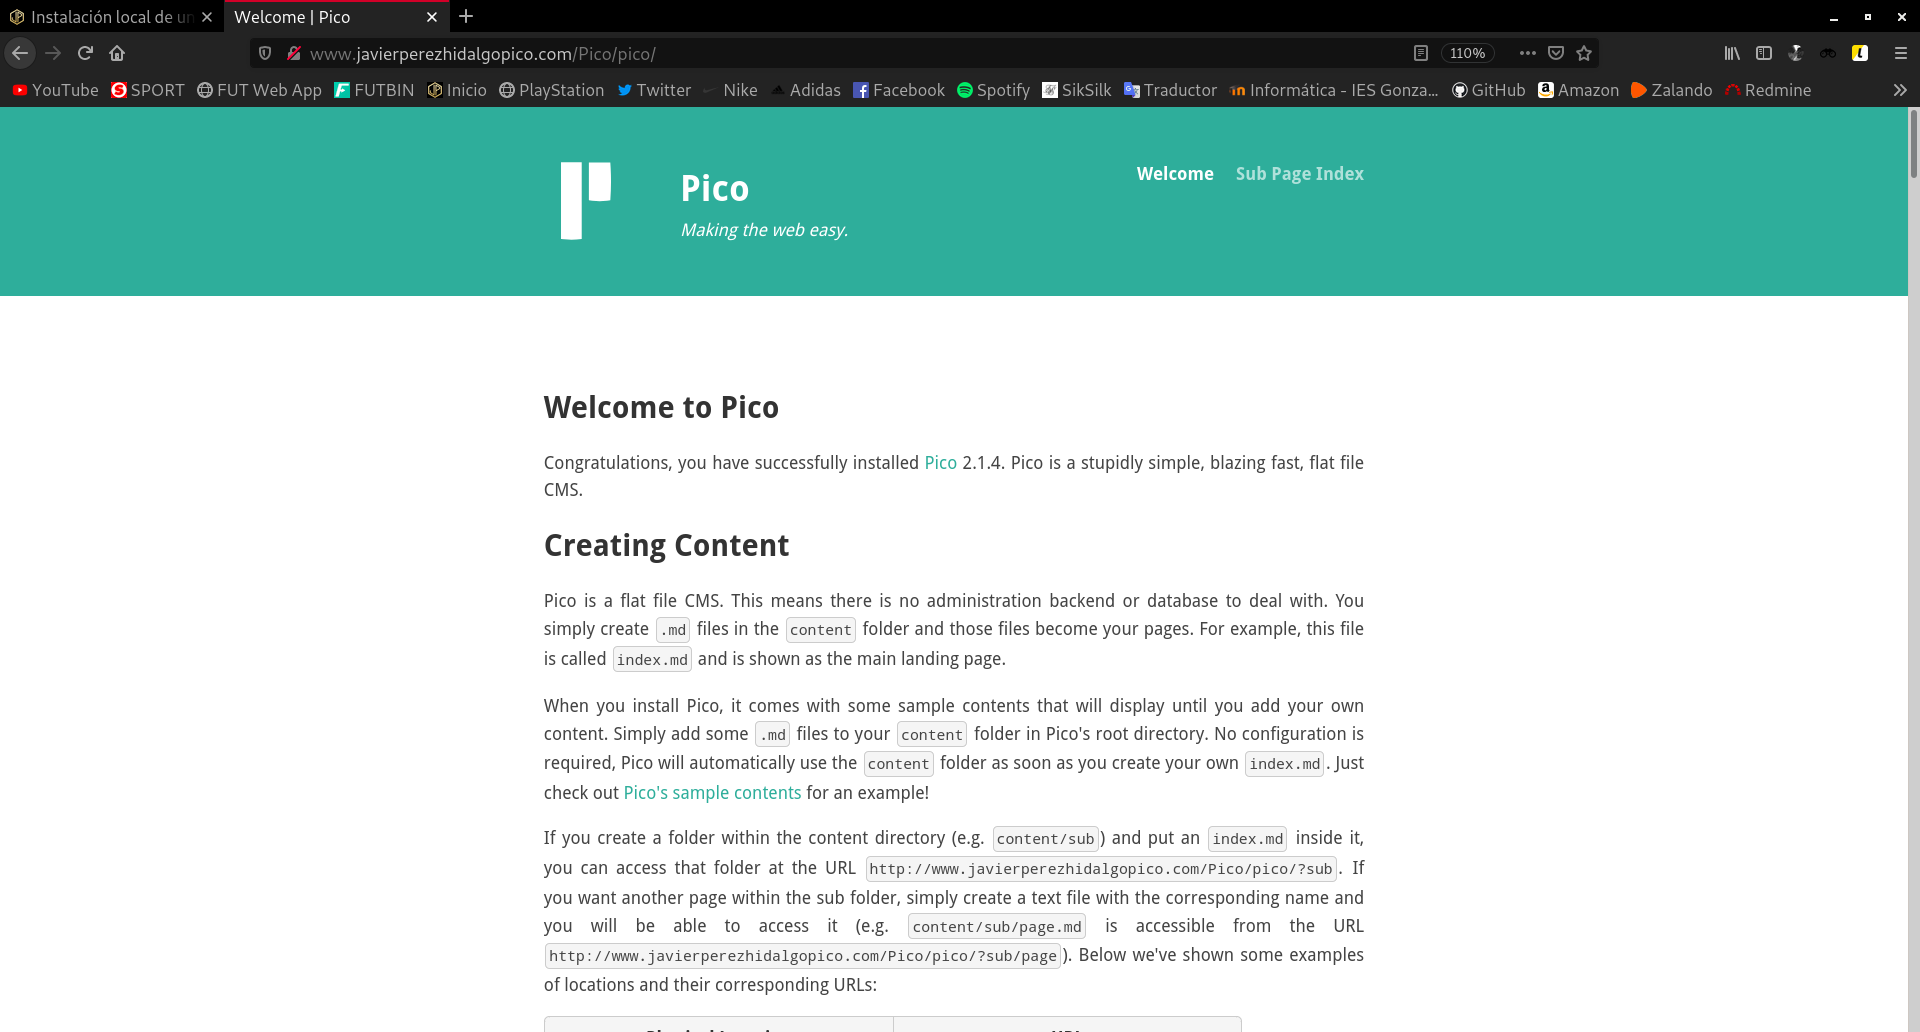
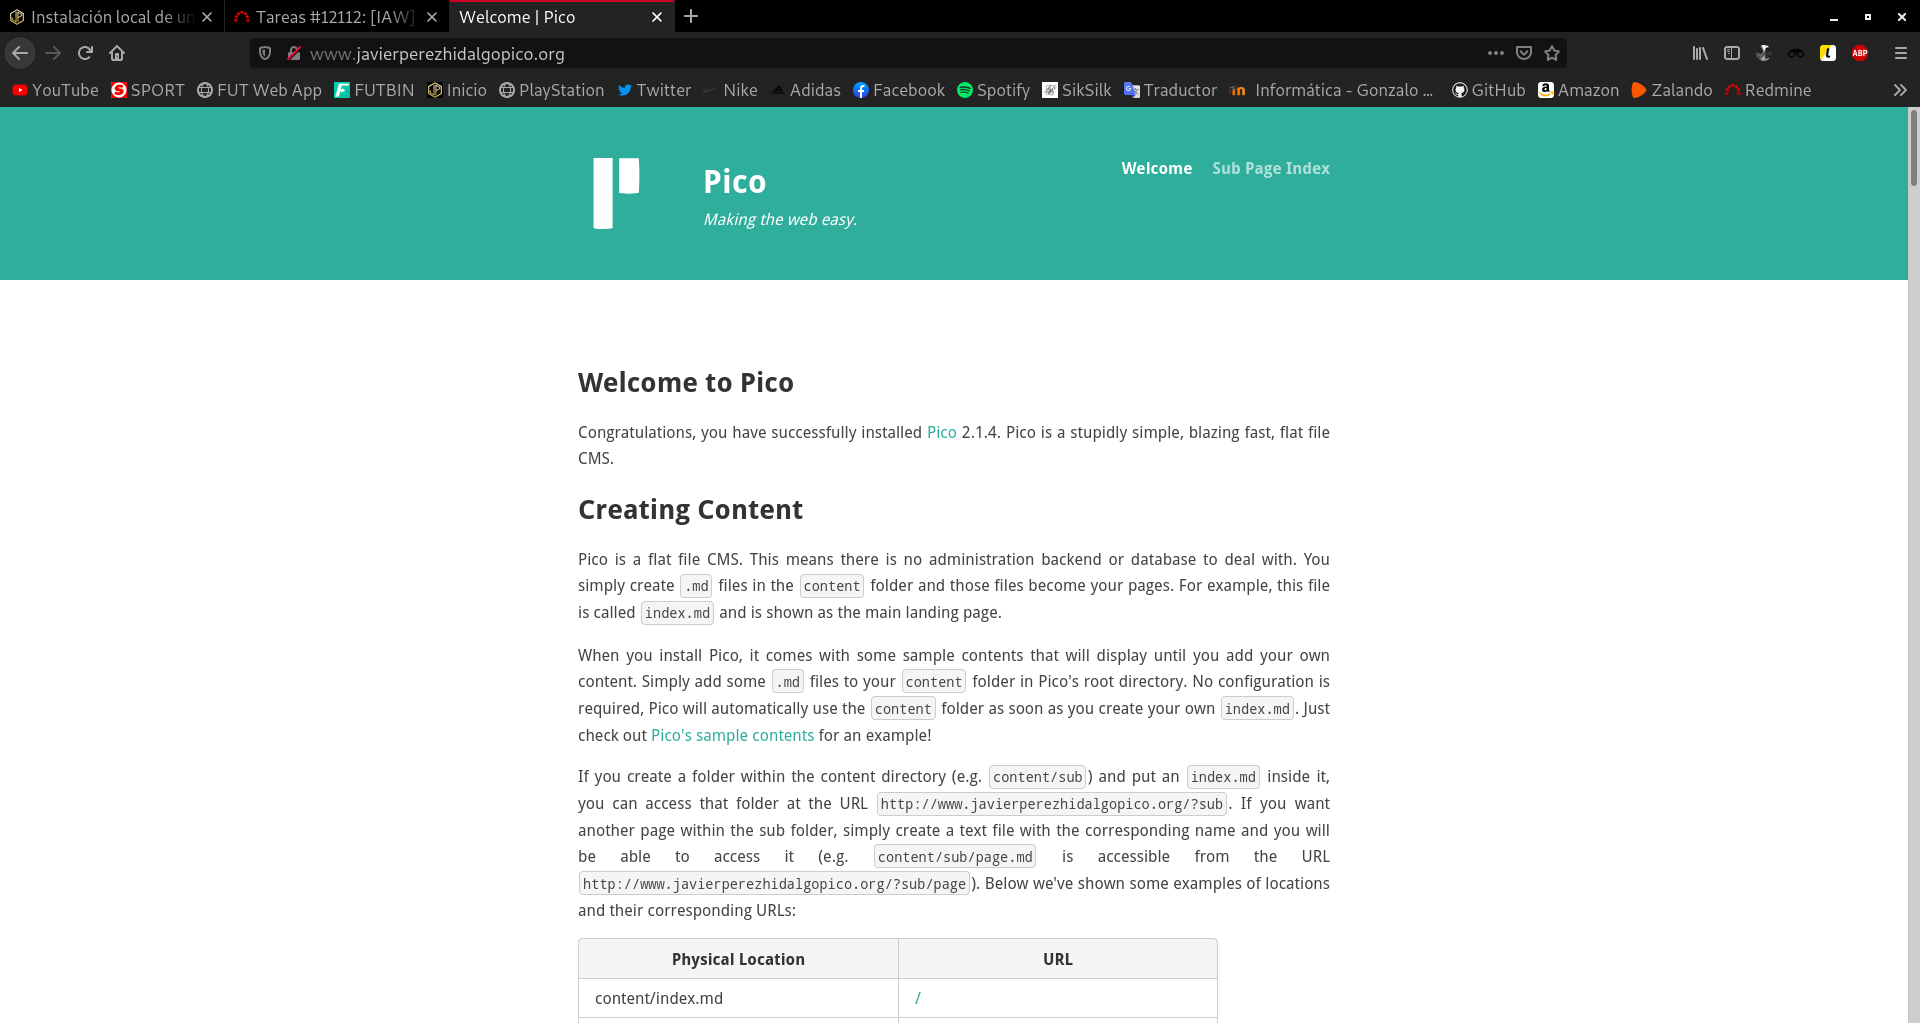
cambios

diff --git a/content/iaw_instalacion_local_de_un_CMS_PHP.md b/content/iaw_instalacion_local_de_un_CMS_PHP.md
@@ -1036,49 +1036,57 @@ Así luce nuestra nueva página:
 
 ## Instalación de un CMS PHP que no utiliza base de datos
 
-También voy a instalar un CMS llamado **Pico**. No tiene un backend para editar los datos (aunque existe un plugin para ello). No utiliza consultas a la base de datos, por lo tanto, es súper rápido. Es compatible con el formato Markdown y las plantillas twig.
+También voy a instalar un CMS llamado **Pico**. No tiene un *backend* para editar los datos (aunque existe un *plugin* para ello). No utiliza consultas a la base de datos, por lo tanto, es súper rápido. Es compatible con el formato *Markdown* y las plantillas *twig*.
 
 Vamos a proceder a instalarlo.
 
-Si nos ayudamos de la página oficial de [Pico](http://picocms.org/), la descarga la podemos realizar clonando un repositorio de GitHub. Por tanto necesitamos el paquete `git` en nuestro sistema:
+Si nos ayudamos de la página oficial de [Pico](http://picocms.org/), la descarga la podemos realizar clonando un repositorio de *GitHub*. Por tanto necesitamos el paquete `git` en nuestro sistema:
 
 <pre>
 apt install git -y
 </pre>
 
-Clonamos el repositorio en `/var/www/html`:
+Clonamos el repositorio en `/srv/www`:
 
 <pre>
-git clone https://github.com/picocms/Pico.git
+root@buster:/srv/www# git clone https://github.com/picocms/Pico.git
 </pre>
 
 Hemos otorgado a `www-data` como dueño del directorio y su contenido al servidor web.
 
 <pre>
-root@buster:/var/www/html# chown -R www-data:www-data ./Pico/
-
-root@buster:/var/www/html# ls -l
-total 24
-lrwxrwxrwx  1 root     root        27 Oct 28 09:52 drupal -> /var/www/html/drupal-9.0.7/
-drwxr-xr-x  8 www-data www-data  4096 Oct 28 11:14 drupal-9.0.7
--rw-r--r--  1 root     root     10701 Oct 28 09:44 index.html
--rw-r--r--  1 root     root        20 Oct 28 09:45 phpinfo.php
-drwxr-xr-x 12 www-data www-data  4096 Oct 29 17:54 Pico
+root@buster:/srv/www# chown -R www-data:www-data /srv/
 </pre>
 
 Descargamos el instalador y lo lanzamos mediante los siguientes comandos:
 
 <pre>
-curl -sSL https://getcomposer.org/installer | php
-php composer.phar create-project picocms/pico-composer pico
+root@buster:/srv/www# curl -sSL https://getcomposer.org/installer | php
+
+...
+
+root@buster:/srv/www# php composer.phar create-project picocms/pico-composer pico
+
+...
 </pre>
 
-Hemos instalado el CMS Pico. Solo nos quedaría configurar apache para que sirva este sitio web en la dirección `http://www.javierperezhidalgopico.com/Pico/pico/`. Primero creamos el fichero de configuración en `/etc/apache2/sites-available`, lo voy a llamar `pico.conf`. Añado las siguientes líneas:
+Hemos instalado el CMS *Pico*. Solo nos quedaría configurar *Apache* para que sirva este sitio web en la dirección `www.javierperezhidalgopico.com/`. Primero creamos el fichero de configuración en `/etc/apache2/sites-available`, lo voy a llamar `pico.conf`. Añado las siguientes líneas:
 
 <pre>
-ServerName www.javierperezhidalgopico.com
-DocumentRoot /var/www/html/Pico
+<\VirtualHost *:80\>
+
+        ServerName www.javierperezhidalgopico.org
+
+        ServerAdmin webmaster@localhost
+        DocumentRoot /srv/www/pico
+
+        ErrorLog ${APACHE_LOG_DIR}/error.log
+        CustomLog ${APACHE_LOG_DIR}/access.log combined
+
+<\/VirtualHost\>
 </pre>
+
+**Atención:** a esta configuración hay que eliminarle los carácteres `\`, que he tenido que introducir para escapar los carácteres siguientes, así que en caso de querer copiar la configuración, debemos tener en cuenta esto.
 
 Habilitamos el despliegue de la página:
 
@@ -1095,10 +1103,10 @@ systemctl restart apache2
 Acabamos de lanzar nuestra página en Pico, si queremos visualizarla en nuestra máquina anfitrión, añadimos la siguiente línea al fichero `/etc/hosts`:
 
 <pre>
-192.168.30.15   www.javierperezhidalgopico.com
+192.168.30.15   www.javierperezhidalgopico.org
 </pre>
 
-Nos dirigimos a la web `http://www.javierperezhidalgopico.com/Pico/pico/`:
+Nos dirigimos a la web `www.javierperezhidalgopico.org`:
 
 ![.](images/iaw_instalacion_local_de_un_cms_php/pico.png)
 
